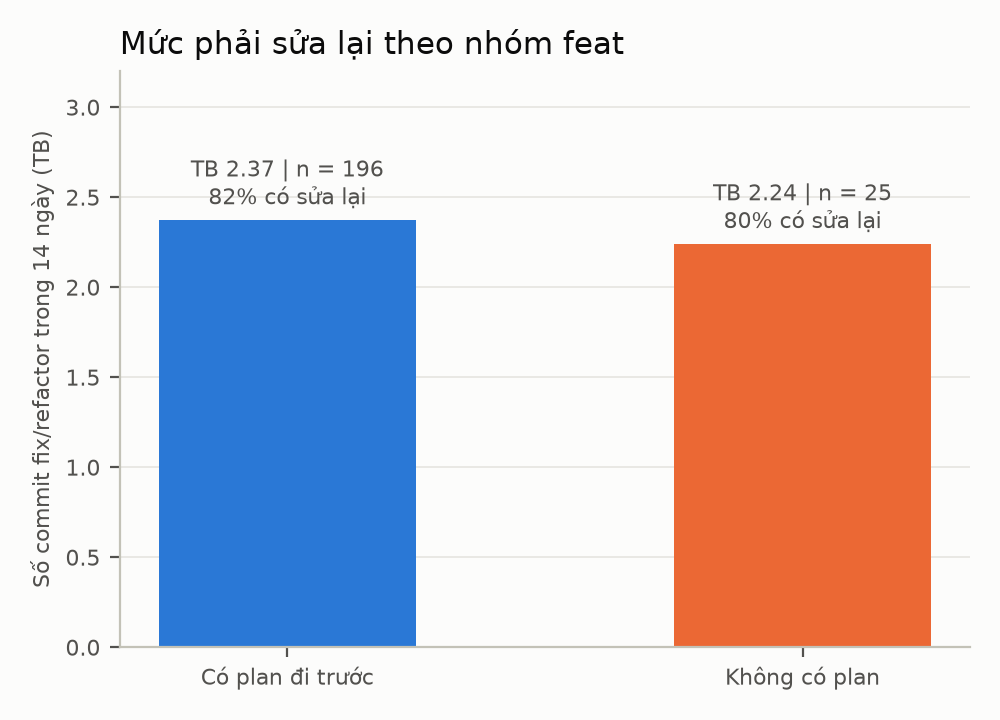
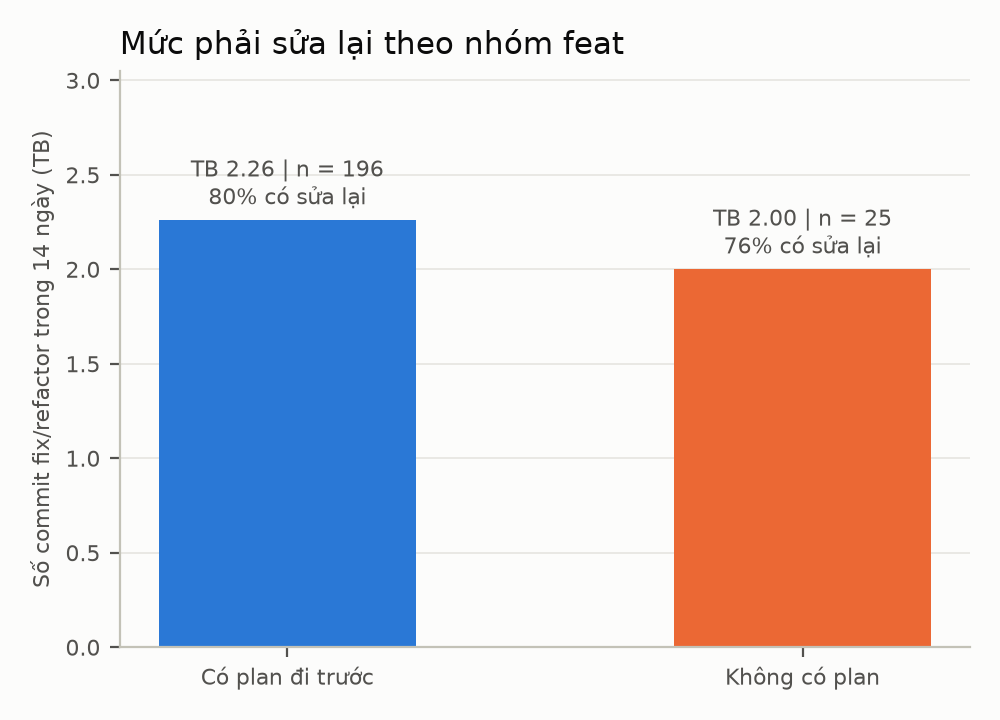
fix(retro): count only human session messages and keep Markdown out of rework

diff --git a/retrospective/tests/test_sessions.py b/retrospective/tests/test_sessions.py
@@ -140,3 +140,26 @@ def test_tool_rows_sum_across_sessions(tmp_path):
 
 def test_collect_skips_missing_dirs(tmp_path):
     assert collect_sessions([tmp_path / "nope"]) == ([], {"after_cutoff": 0, "no_timestamp": 0})
+
+
+def test_injected_user_entries_are_not_human_messages(tmp_path):
+    f = tmp_path / "s.jsonl"
+    ts = "2026-09-01T01:00:00Z"
+    _write(
+        f,
+        [
+            {"type": "user", "timestamp": ts, "message": {"content": "real question"}},
+            {"type": "user", "isMeta": True, "message": {"content": "injected skill body"}},
+            {"type": "user", "isCompactSummary": True, "message": {"content": "summary"}},
+            {"type": "user", "message": {"content": "<command-name>/clear</command-name>"}},
+            {
+                "type": "user",
+                "message": {
+                    "content": [
+                        {"type": "text", "text": "<local-command-stdout>x</local-command-stdout>"}
+                    ]
+                },
+            },
+        ],
+    )
+    assert session_stats(f).user_messages == 1

diff --git a/retrospective/src/retro/sessions.py b/retrospective/src/retro/sessions.py
@@ -19,6 +19,8 @@ SESSION_DIRS = (
 )
 CUTOFF = date(2026, 11, 10)
 _INTERRUPT = "[Request interrupted by user"
+_INJECTED_FLAGS = ("isMeta", "isCompactSummary")
+_INJECTED_PREFIXES = ("<command-", "<local-command")
 
 
 @dataclass(frozen=True)
@@ -71,8 +73,10 @@ def session_stats(path: Path) -> SessionStats:
             message = entry.get("message")
             content = message.get("content") if isinstance(message, dict) else None
             if entry.get("type") == "user":
+                if any(entry.get(flag) for flag in _INJECTED_FLAGS):
+                    continue
                 text = _user_text(content)
-                if text is not None:
+                if text is not None and not text.lstrip().startswith(_INJECTED_PREFIXES):
                     user_messages += 1
                     interrupts += _INTERRUPT in text
             elif entry.get("type") == "assistant":

diff --git a/retrospective/src/retro/rework.py b/retrospective/src/retro/rework.py
@@ -15,7 +15,12 @@ _IGNORED_STAGES = ("docs", "other")
 
 
 def _code_files(commit: Commit) -> set[str]:
-    return {f.path for f in commit.files if classify_file(f.path) not in _IGNORED_STAGES}
+    """Files that count for rework: not docs/other stage and not Markdown anywhere."""
+    return {
+        f.path
+        for f in commit.files
+        if classify_file(f.path) not in _IGNORED_STAGES and not f.path.endswith(".md")
+    }
 
 
 def rework_count(feat: Commit, later: list[Commit], window_days: int = 14) -> int:

diff --git a/retrospective/tests/test_rework.py b/retrospective/tests/test_rework.py
@@ -99,3 +99,9 @@ def test_rework_rows(make_repo):
         ("frontend", 1, False, 0),
     ]
     assert rows[0]["date"] == "2026-09-02"
+
+
+def test_markdown_inside_subprojects_is_not_code():
+    feat = _c("feat", 1, "backend/docs/superpowers/plans/p.md", "backend/src/a.py")
+    later = [_c("fix", 3, "backend/docs/superpowers/plans/p.md")]
+    assert rework_count(feat, later) == 0
